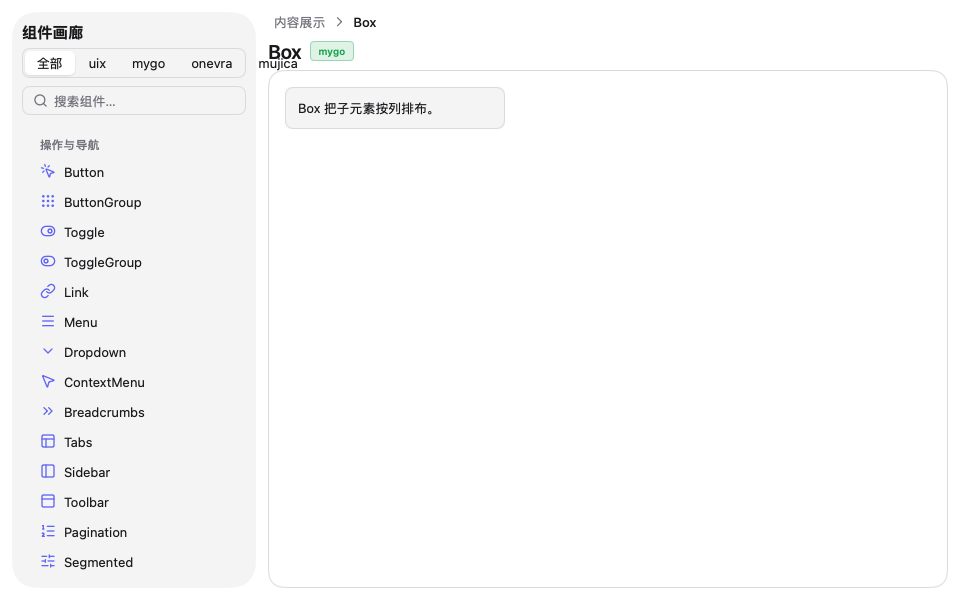
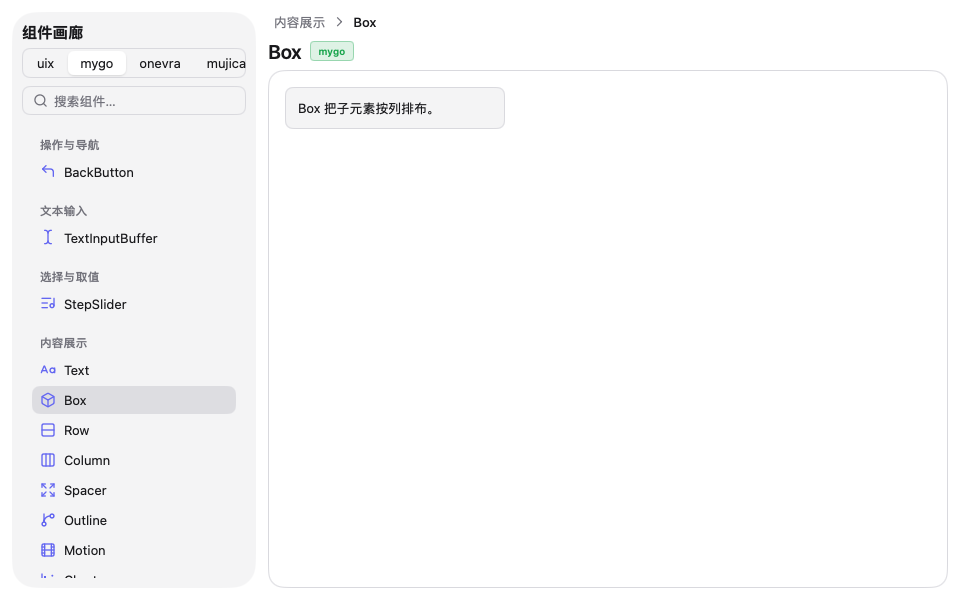
gallery: drop the "全部" filter segment, which overflowed the rail
Five segments did not fit the 244px rail and the last one drew past
it. The gallery needs no "all" view anyway: it opens on a library
(uix) and the visitor picks one of the four. So the filter is always
on, Filter 0 is uix, and the rail holds four segments with room to
spare.

The always-on filter has one consequence the tests now pin down: a
page is reachable only under its own library, so the snapshot command
and the tests set the filter to the page's library before selecting
it, and a chosen page that is not of the filtered library lands on the
library's first page.

Changed region(s): [[0.0312, 0.33, 0.1562, 0.96], [0.0312, 0.09, 0.3125, 0.12], [0.0312, 0.27, 0.1562, 0.3]]

diff --git a/examples/gallery/view/view.go b/examples/gallery/view/view.go
@@ -29,9 +29,9 @@ const Width, Height = 960, 600
 func GalleryView(c *ui.Context) {
 	c.SetTheme(tokens.For(c.Theme().Dark))
 	t := c.Theme()
-	// A library filter that does not show the chosen page lands on the
-	// first page of the library it does show.
-	if lib, ok := filterLib(); ok && !inLib(lib, State.Selected) {
+	// The chosen page belongs to the filtered library, or the gallery
+	// lands on the library's first page, so the sidebar shows the page.
+	if lib := Library(State.Filter); !inLib(lib, State.Selected) {
 		if e, ok := firstOf(lib); ok {
 			State.Selected = e.ID
 		}
@@ -49,11 +49,14 @@ func rail(c *ui.Context, t *ui.Theme) {
 	ui.Column(c).Width(244).FillHeight().Shrink(0).Gap(t.Space(2)).
 		Background(t.Surface).Radius(t.Radius * 3).Padding(t.Space(2.5)).Children(func() {
 		ui.Text(c, "组件画廊").FontSize(t.FontSize * 1.2).Bold()
-		// The library filter: 全部 mixes the libraries, and each
-		// name shows that library's components alone.
+		// The library filter shows one library's components at a time.
+		// Five segments would not fit the rail, and the visitor starts on
+		// uix, so the gallery has no "all" segment: each name shows that
+		// library's components alone, and the current page jumps to the
+		// library's first when it does not belong to the chosen one.
 		segmented.Segmented(c, segmented.Props{
 			Selected: &State.Filter,
-			Labels:   []string{"全部", "uix", "mygo", "onevra", "mujica"},
+			Labels:   []string{"uix", "mygo", "onevra", "mujica"},
 			Label:    "按库过滤",
 		})
 		searchfield.SearchField(c, searchfield.Props{Value: &State.Query, Placeholder: "搜索组件…"})
@@ -101,18 +104,17 @@ func current() (Entry, string) {
 }
 
 // sectionsFor returns the sidebar sections whose items match the query
-// and the library filter: every item when the query is empty, else
+// and the filtered library: every item when the query is empty, else
 // those whose name or ID contains it, case-insensitively; and only the
-// filtered library's items when the filter is on. Each item carries the
-// icon of its component.
+// filtered library's items. Each item carries the icon of its component.
 func sectionsFor(query string) []sidebar.Section {
 	q := strings.ToLower(strings.TrimSpace(query))
-	lib, filtered := filterLib()
+	lib := Library(State.Filter)
 	var out []sidebar.Section
 	for _, s := range catalog {
 		var items []sidebar.Item
 		for _, e := range s.Entries {
-			if filtered && e.Lib != lib {
+			if e.Lib != lib {
 				continue
 			}
 			if q == "" || strings.Contains(strings.ToLower(e.Name), q) || strings.Contains(strings.ToLower(e.ID), q) {
@@ -124,15 +126,6 @@ func sectionsFor(query string) []sidebar.Section {
 		}
 	}
 	return out
-}
-
-// filterLib returns the library the sidebar is filtered to, and whether
-// a filter is on; Filter 0 (全部) filters none.
-func filterLib() (Library, bool) {
-	if State.Filter == 0 {
-		return 0, false
-	}
-	return Library(State.Filter - 1), true
 }
 
 // firstOf returns the first catalog entry of the library, for the

diff --git a/examples/gallery/main_test.go b/examples/gallery/main_test.go
@@ -16,7 +16,7 @@ func newTester(t *testing.T) *ui.Tester {
 }
 
 // countExact counts the texts of the frame equal to s. The library
-// filter in the rail names the three libraries, so a library's text
+// filter in the rail names the four libraries, so a library's text
 // appears there even on a page of another library: once when only the
 // filter names it, twice when the page's badge names it too.
 func countExact(tt *ui.Tester, s string) int {
@@ -34,7 +34,7 @@ func countExact(tt *ui.Tester, s string) int {
 func TestRenders(t *testing.T) {
 	tt := newTester(t)
 	for _, s := range []string{
-		"组件画廊", "全部", "操作与导航",
+		"组件画廊", "操作与导航",
 		"Button", "主要", "次要", "描边", "幽灵", "危险", "禁用",
 	} {
 		if !tt.HasText(s) {
@@ -66,6 +66,9 @@ func reach(t *testing.T, tt *ui.Tester, query, item string) {
 // item into view first.
 func TestNavigate(t *testing.T) {
 	tt := newTester(t)
+	// The PixelGrid page is onevra's, and the sidebar shows one library
+	// at a time, so the filter chooses it before the search finds it.
+	view.State.Filter = int(view.Onevra)
 	reach(t, tt, "pixel", "PixelGrid")
 	if view.State.Selected != "pixelgrid" {
 		t.Fatalf("the click chose %q, want pixelgrid", view.State.Selected)
@@ -79,10 +82,14 @@ func TestNavigate(t *testing.T) {
 // mygo page carries the mygo badge, an onevra page the onevra badge.
 func TestLibraries(t *testing.T) {
 	tt := newTester(t)
+	// Each page belongs to one library, which the sidebar shows alone, so
+	// the filter picks the page's library before the search finds it.
+	view.State.Filter = int(view.Mygo)
 	reach(t, tt, "box", "Box")
 	if countExact(tt, "mygo") < 2 {
 		t.Fatal("the Box page lacks the mygo badge beside the filter")
 	}
+	view.State.Filter = int(view.Onevra)
 	reach(t, tt, "donut", "DonutChart")
 	if countExact(tt, "onevra") < 2 {
 		t.Fatal("the DonutChart page lacks the onevra badge")
@@ -93,8 +100,7 @@ func TestLibraries(t *testing.T) {
 }
 
 // TestLibraryFilter clicks a library and the sidebar shows that
-// library's components alone, and the page lands on one of them; the
-// 全部 segment restores the mixed sidebar.
+// library's components alone, and the page lands on one of them.
 func TestLibraryFilter(t *testing.T) {
 	tt := newTester(t)
 	if err := tt.Click("mygo"); err != nil {
@@ -124,6 +130,8 @@ func TestLibraryFilter(t *testing.T) {
 // opens its page.
 func TestSearch(t *testing.T) {
 	tt := newTester(t)
+	// DonutChart is onevra's, and the sidebar shows one library at a time.
+	view.State.Filter = int(view.Onevra)
 	view.State.Query = "chart"
 	tt.Frame()
 	if !tt.HasText("DonutChart") {

diff --git a/examples/gallery/view/catalog_test.go b/examples/gallery/view/catalog_test.go
@@ -37,6 +37,9 @@ func TestEveryPageRenders(t *testing.T) {
 	for _, s := range catalog {
 		for _, e := range s.Entries {
 			Reset()
+			// The sidebar shows the entry only under its library's filter,
+			// which the heading needs beside it to prove the page drew.
+			State.Filter = int(e.Lib)
 			State.Selected = e.ID
 			func() {
 				defer func() {
@@ -62,6 +65,20 @@ func count(s string, texts []string) int {
 		}
 	}
 	return n
+}
+
+// filterTo sets the library filter to the page's own library, so a test
+// that opens a page by ID draws that page: the gallery jumps a chosen
+// page that is not of the filtered library to the library's first.
+func filterTo(id string) {
+	for _, s := range catalog {
+		for _, e := range s.Entries {
+			if e.ID == id {
+				State.Filter = int(e.Lib)
+				return
+			}
+		}
+	}
 }
 
 // sameColor reports whether the pixel holds the theme color, ignoring
@@ -128,6 +145,7 @@ func TestOnevraPagesDrawContent(t *testing.T) {
 		{"conversation", "帮我审查这段代码。"},
 	} {
 		Reset()
+		filterTo(tc.id)
 		State.Selected = tc.id
 		tt.Frame()
 		if !tt.HasText(tc.want) {
@@ -159,6 +177,7 @@ func TestMujicaPagesDrawContent(t *testing.T) {
 		{"021", "Variants"},
 	} {
 		Reset()
+		filterTo(tc.id)
 		State.Selected = tc.id
 		tt.Frame()
 		if !tt.HasText(tc.want) {
@@ -209,6 +228,7 @@ func TestDemoContentShows(t *testing.T) {
 		{"signalfield", "欢迎来到组件画廊"},
 	} {
 		Reset()
+		filterTo(tc.id)
 		State.Selected = tc.id
 		tt.Frame()
 		if !tt.HasText(tc.want) {
@@ -228,6 +248,7 @@ func TestStartupStateRenders(t *testing.T) {
 	tt := ui.NewTester(GalleryView, Width, Height)
 	for _, s := range catalog {
 		for _, e := range s.Entries {
+			State.Filter = int(e.Lib) // the filter always shows one library
 			State.Selected = e.ID
 			func() {
 				defer func() {

diff --git a/examples/gallery/cmd/snapshot/main.go b/examples/gallery/cmd/snapshot/main.go
@@ -14,18 +14,24 @@ import (
 )
 
 // pages are the snapshots: a uix page, a mygo page, an onevra page and
-// a MujicaUI page, by the sidebar ID of each.
-var pages = []struct{ name, id string }{
-	{"gallery", "button"},
-	{"gallery-box", "box"},
-	{"gallery-pixelgrid", "pixelgrid"},
-	{"gallery-mujica-appshell", "001"},
+// a MujicaUI page, by the sidebar ID and library of each. The gallery
+// shows one library at a time, so the filter picks the page's library
+// or the gallery lands on the library's first page instead.
+var pages = []struct {
+	name, id string
+	lib      view.Library
+}{
+	{"gallery", "button", view.Uix},
+	{"gallery-box", "box", view.Mygo},
+	{"gallery-pixelgrid", "pixelgrid", view.Onevra},
+	{"gallery-mujica-appshell", "001", view.Mujica},
 }
 
 func main() {
 	for _, dark := range []bool{false, true} {
 		for _, p := range pages {
 			view.Reset()
+			view.State.Filter = int(p.lib)
 			view.State.Selected = p.id
 			tt := ui.NewTester(view.GalleryView, view.Width, view.Height)
 			tt.SetDark(dark)

diff --git a/examples/gallery/view/fit_test.go b/examples/gallery/view/fit_test.go
@@ -1,0 +1,29 @@
+package view
+
+import (
+	"testing"
+
+	"github.com/egoist/mygo/ui"
+
+	tokens "github.com/smallnest/uix/components/base"
+)
+
+// TestLibraryFilterFitsInRail requires the last segment of the library
+// filter to stay inside the rail. Five segments once drew past it; the
+// gallery dropped the "全部" segment so the four libraries fit, and this
+// keeps the filter from growing back out.
+func TestLibraryFilterFitsInRail(t *testing.T) {
+	Reset()
+	tt := ui.NewTester(GalleryView, Width, Height)
+	tt.Frame()
+	last, ok := tt.Find("mujica")
+	if !ok {
+		t.Fatalf("no mujica segment drawn")
+	}
+	// The rail is 244 wide and begins at the window's padding.
+	theme := tokens.For(false)
+	railRight := theme.Space(3) + 244
+	if last.X+last.W > railRight {
+		t.Errorf("the mujica segment draws past the rail: right=%v, rail right=%v", last.X+last.W, railRight)
+	}
+}

diff --git a/examples/gallery/view/state.go b/examples/gallery/view/state.go
@@ -42,8 +42,8 @@ type GalleryState struct {
 	Selected string
 	// Query filters the sidebar items.
 	Query string
-	// Filter is the chosen segment of the library filter: 0 shows every
-	// library mixed, 1 uix, 2 mygo, 3 onevra and 4 mujica alone.
+	// Filter is the chosen segment of the library filter: 0 uix, 1 mygo,
+	// 2 onevra and 3 mujica alone; the gallery has no "all" segment.
 	Filter int
 }
 
